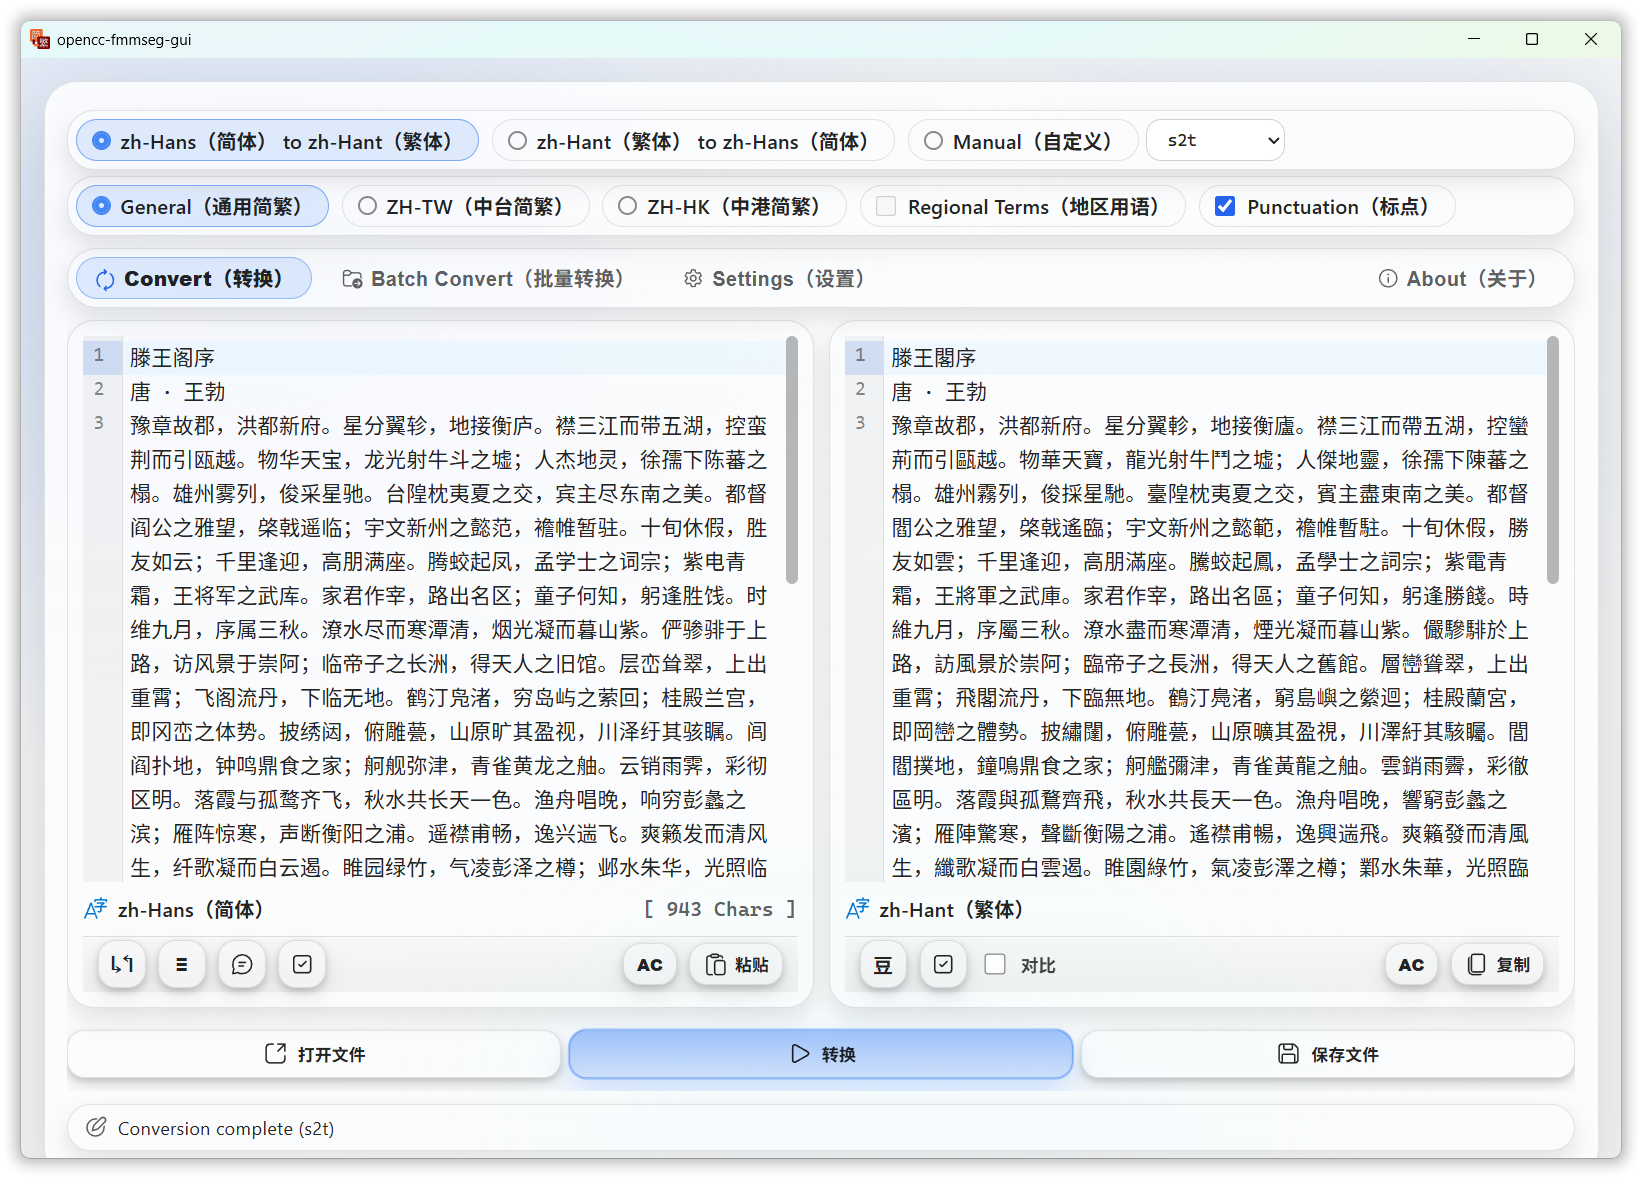
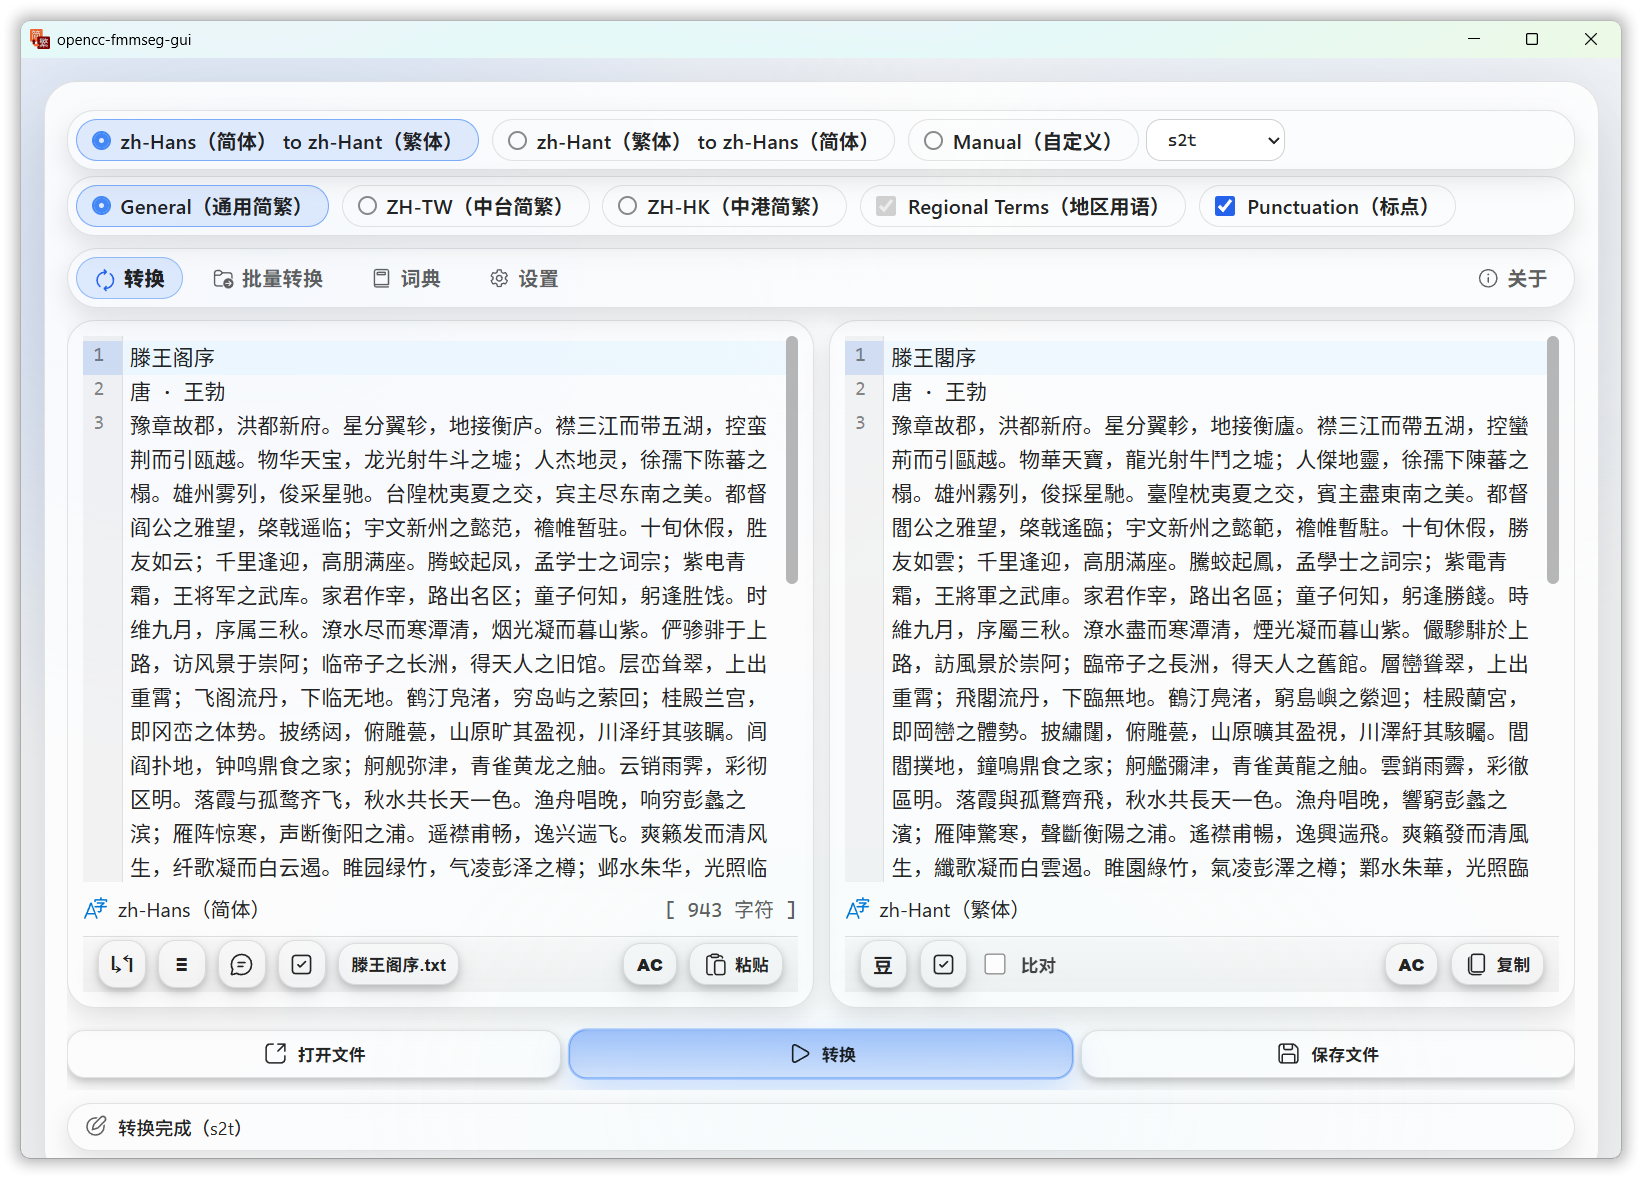
Release v0.12.0

diff --git a/README.md b/README.md
@@ -5,23 +5,29 @@
 [![License](https://img.shields.io/github/license/laisuk/opencc-fmmseg-gui)](https://github.com/laisuk/opencc-fmmseg-gui/blob/master/LICENSE)
 ![Build Status](https://github.com/laisuk/opencc-fmmseg-gui/actions/workflows/build_test.yml/badge.svg)
 
-A **modern cross‑platform Chinese text converter** built with **Tauri + Vite** and powered by the Rust **opencc-fmmseg**
-engine.
+A **modern cross-platform Chinese text conversion workstation** built with **Tauri + Vite** and powered by the Rust
+**opencc-fmmseg** engine.
 
-The application provides fast **Simplified ↔ Traditional Chinese conversion**, PDF text extraction, and batch processing
-in a lightweight desktop GUI.
+Beyond fast **Simplified ↔ Traditional Chinese conversion**, the application provides configurable regional
+conversion, runtime custom dictionaries, Office / EPUB / PDF processing, compatibility normalization, legacy CJK
+encoding support, and batch workflows in a lightweight desktop GUI.
 
 ---
 
 # ✨ Highlights
 
-• ⚡ **Fast Rust conversion engine** (opencc-fmmseg)  
-• 🖥 **Cross-platform desktop app** (Windows / Linux / macOS)  
-• 📚 **Office / EPUB / PDF support**  
-• 📄 **PDF text extraction with CJK reflow**  
-• 🔍 **Compare mode to highlight conversion differences**  
-• 📂 **Batch conversion**  
-• 🎨 **Modern UI (Tauri + Vite)**
+- ⚡ **Fast Rust conversion engine** powered by opencc-fmmseg
+- 🀄 **Simplified ↔ Traditional conversion** with Taiwan, Hong Kong, regional-term, and punctuation options
+- 📖 **Runtime custom dictionaries** with Append / Override modes and hot-swapping without restarting
+- 🧩 **Dictionary tools** for generating ZSTD, CBOR, and readable JSON dictionary artifacts
+- 📚 **Office / EPUB / PDF conversion** with optional filename conversion
+- 📄 **PDF text extraction and CJK-aware reflow**, including advanced handling for untrusted PDF text
+- 🈶 **CJK compatibility normalization** with optional extended Unicode compatibility mappings
+- 🔤 **Legacy CJK encoding detection and reload**, with optional automatic detection for batch text conversion
+- 📂 **Batch conversion** across supported document and text formats
+- 🔍 **Compare mode** for inspecting conversion differences
+- 🌐 **Runtime localization** in English, Simplified Chinese, and Traditional Chinese
+- 🖥 **Cross-platform portable desktop app** for Windows, Linux, and macOS
 
 ---
 
@@ -151,7 +157,7 @@ The goal is **clean reading text**, not exact layout reconstruction.
 
 Workflow:
 
-1. Paste text or open a file
+1. Paste text, drag-in or open a file
 2. Choose conversion configuration
 3. Click **Convert**
 
@@ -291,16 +297,16 @@ MIT License
 
 # 🙏 Acknowledgements
 
-• **OpenCC** – Chinese conversion dictionaries  
-https://github.com/BYVoid/OpenCC
+- **OpenCC** – Chinese conversion dictionaries  
+  https://github.com/BYVoid/OpenCC
 
-• **opencc-fmmseg** – Rust implementation  
-https://github.com/laisuk/opencc-fmmseg
+- **opencc-fmmseg** – Rust implementation  
+  https://github.com/laisuk/opencc-fmmseg
 
-• **PDFium** – PDF rendering and extraction engine
+- **PDFium** – PDF rendering and extraction engine
 
-• **CodeMirror 6** – high-performance text editor used in the GUI  
-https://codemirror.net/
+- **CodeMirror 6** – high-performance text editor used in the GUI  
+  https://codemirror.net/
 
-• **Tauri** – cross-platform desktop framework  
-https://tauri.app
+- **Tauri** – cross-platform desktop framework  
+  https://tauri.app

diff --git a/CHANGELOG.md b/CHANGELOG.md
@@ -7,7 +7,7 @@ the [Keep a Changelog](https://keepachangelog.com/en/1.0.0/) format.
 
 ---
 
-## [0.12.0] - 2026-09-17
+## [0.12.0] - 2026-09-18
 
 ### Added
 
